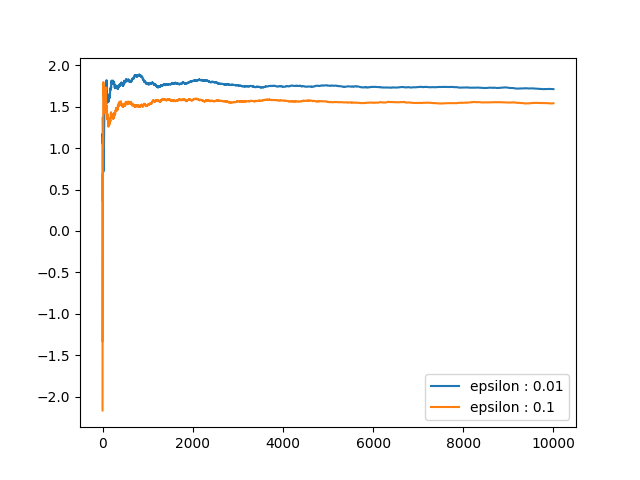
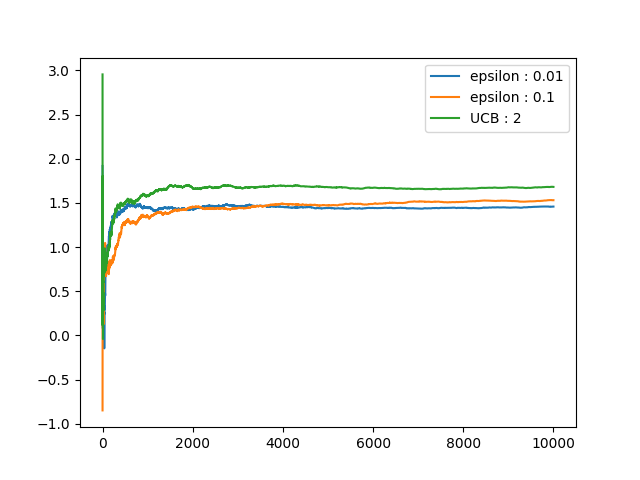
02

diff --git a/Chap2_10_armed_bandit_test.py b/Chap2_10_armed_bandit_test.py
@@ -5,7 +5,7 @@ epsilons = [0.01, 0.1]
 time_limit = 10000
 
 mu_list = [0.2, -0.8, 1.7, 0.3, 1.5, -1.2, -0.1, -1.0, 1.2, -0.9]
-sigma_list = [2 for _ in range(len(mu_list))]
+sigma_list = [2.0 for _ in range(len(mu_list))]
 
 env = MultiBanditEnv(mu_list,sigma_list)
 
@@ -31,6 +31,27 @@ for epsilon in epsilons:
 
     fig = plt.plot(range(time_limit),avg_rewards,label=f"epsilon : {epsilon}")
     plt.legend()
+
+rewards = []
+avg_rewards = []
+q_array = np.zeros(shape=len(mu_list),dtype=np.float32)
+N_array = np.zeros(shape=len(mu_list),dtype=np.float32) + 1e-8
+q_tot_array = np.zeros(shape=len(mu_list),dtype=np.float32)
+c = 2
+for time in range(time_limit):
+    uncertainty = c * np.sqrt(np.log(time + 1.1)/N_array)
+    action = np.argmax(q_array + uncertainty)
+
+    reward = env.step(action)
+    N_array[action] += 1
+    q_tot_array[action] += reward
+    q_array[action] = q_tot_array[action] / N_array[action]
+
+    rewards.append(reward)
+    avg_rewards.append(sum(rewards)/(time+1))
+
+fig = plt.plot(range(time_limit),avg_rewards,label=f"UCB : {c}")
+plt.legend()
 plt.savefig("10_armed_bandit_test.png")
 
 

diff --git a/envs/bandits.py b/envs/bandits.py
@@ -34,6 +34,20 @@ class MultiBanditEnv(BaseEnv):
     def get_observation_space(self):
         return None
 
+class ContextualBanditEnv(BaseEnv):
+    def __init__(self,mu_list,sigma_list):
+        super(ContextualBanditEnv,self).__init__()
+        self.num_bandits = len(mu_list)
+        self.mu_list = mu_list
+        self.sigma_list = sigma_list
+        self.bandit_list = [SingleBanditEnv(mu_list[i],sigma_list[i]) for i in range(self.num_bandits)]
+        self.bandit_nums = [i for i in range(self.num_bandits)]
+        self.bandit_num = 0
+    def step(self,action):
+        reward = self.bandit_list[self.bandit_num].step()
+
+        return
+
 
 if __name__ == "__main__":
     env = SingleBanditEnv(0,1)
